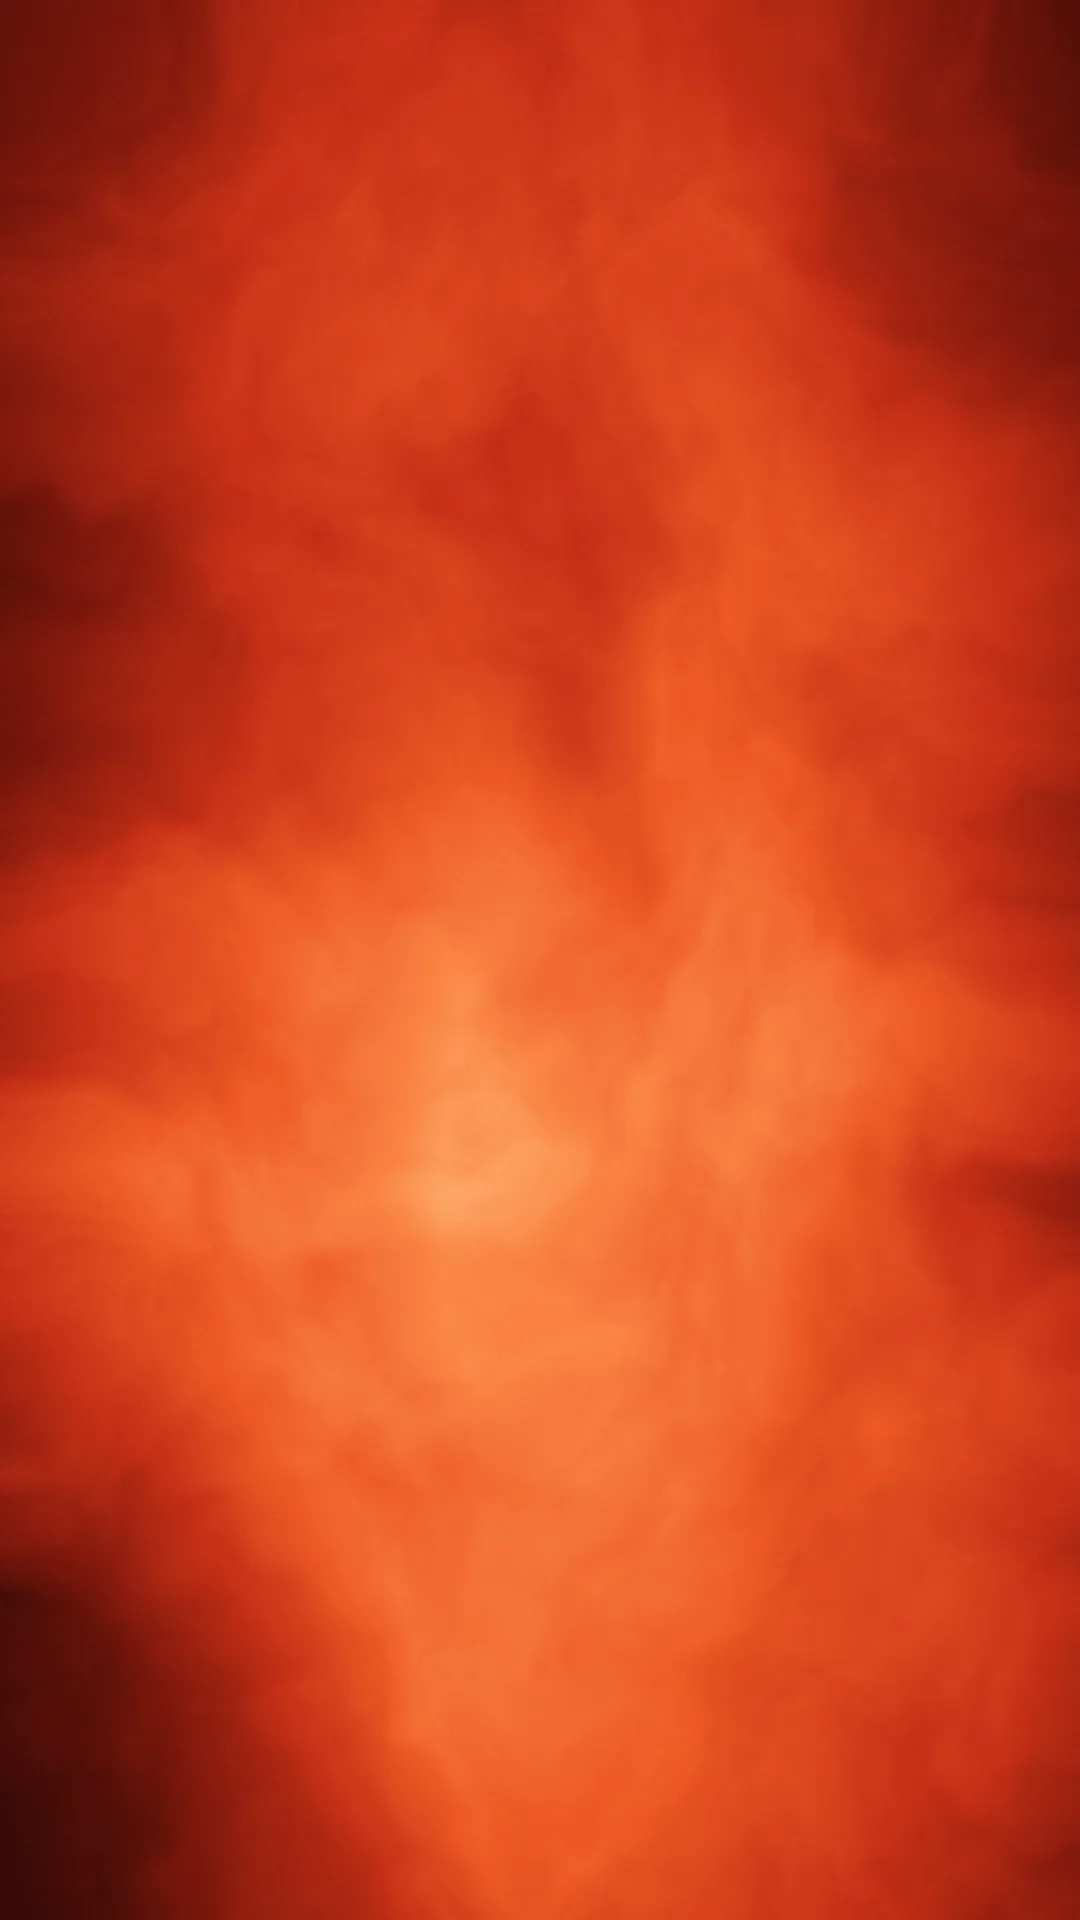
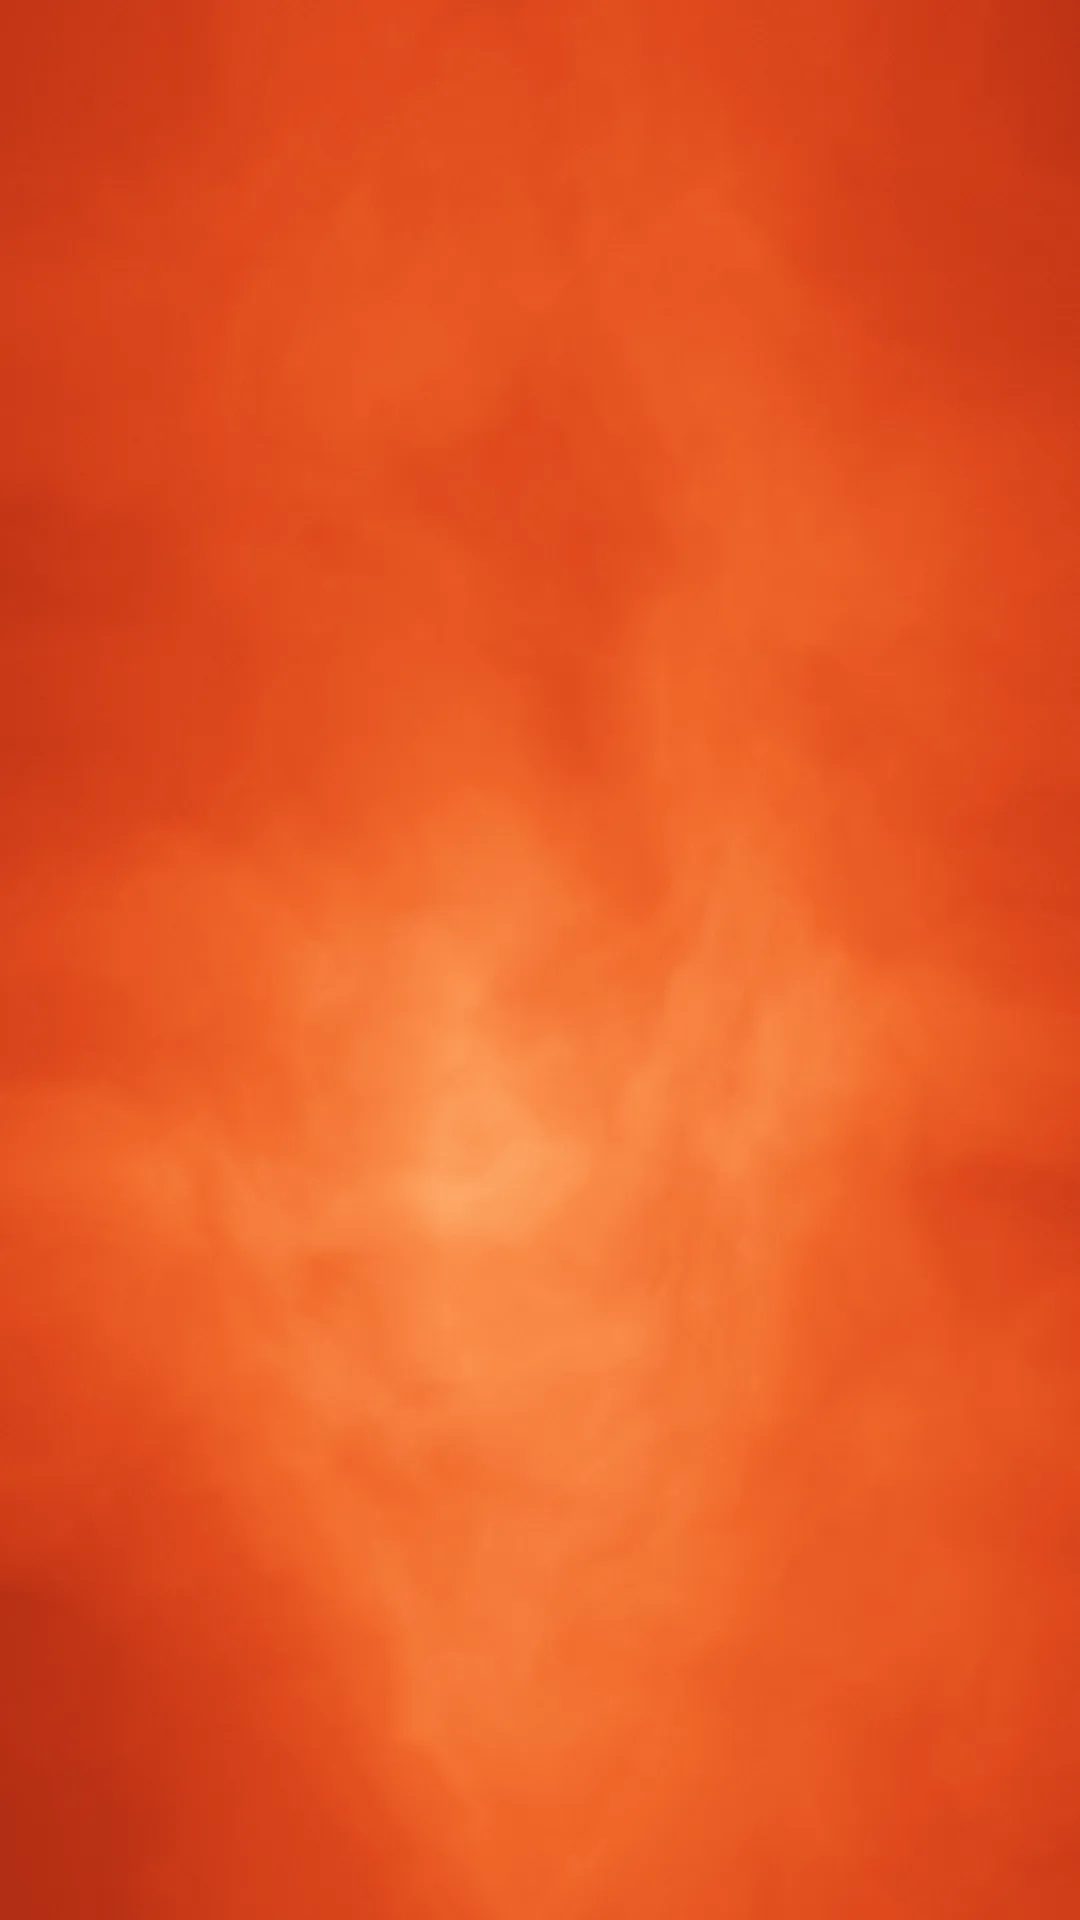
Brighter hero, ligature monogram, no hero button
- Remove Explore the work from the hero; the nav already links to Work
- Regenerate the smoke without near-black: darkest corner is deep orange
- Name in dark ink (AA on the smoke, no shading); top-left on phones
- MP monogram is now a ligature, the P growing out of the M's last stem

diff --git a/src/styles/sections.css b/src/styles/sections.css
@@ -46,12 +46,18 @@
 
 .nav__mono {
   position: relative;
+  display: inline-flex;
   justify-self: start;
   font-family: var(--font-serif);
   font-size: 2.1rem;
   line-height: 1;
   letter-spacing: -0.02em;
   text-decoration: none;
+}
+
+/* MP ligature: the P shares the M's right stem */
+.mono__p {
+  margin-left: -0.19em;
 }
 
 .nav__links {
@@ -293,15 +299,6 @@
   gap: 1rem 1.5rem;
 }
 
-/* a faint shade only behind the corner, so the small name clears AA on the smoke */
-.hero__corner::before {
-  content: '';
-  position: absolute;
-  inset: -90% -40% -90% -25%;
-  z-index: -1;
-  background: radial-gradient(ellipse 60% 55% at 40% 50%, rgb(60 10 5 / 0.38), transparent 75%);
-  pointer-events: none;
-}
 
 .hero__name {
   display: flex;
@@ -312,8 +309,16 @@
   font-weight: 600;
   letter-spacing: 0.3em;
   text-transform: uppercase;
-  color: var(--c-cream);
-  text-shadow: 0 1px 10px rgb(40 6 3 / 0.55);
+  /* dark ink reads on the bright smoke without any shading behind it */
+  color: var(--c-ink);
+}
+
+/* on phones the cloak fills the bottom of the screen, so the name moves to the top */
+@media (max-width: 760px), (max-aspect-ratio: 4/5) {
+  .hero__corner {
+    bottom: auto;
+    top: 5.6rem;
+  }
 }
 
 .hero__name::before {
@@ -323,11 +328,6 @@
   background: currentColor;
 }
 
-.btn--small {
-  min-height: 44px;
-  padding: 0 1.3rem;
-  font-size: 0.92rem;
-}
 
 /* phones and portrait screens: a larger figure, the word still behind the head */
 @media (max-width: 760px), (max-aspect-ratio: 4/5) {

diff --git a/src/sections/Hero.tsx b/src/sections/Hero.tsx
@@ -1,8 +1,8 @@
 import { useEffect, useRef } from 'react';
-import { hero, labels, profile } from '../content/site';
+import { hero, profile } from '../content/site';
 import { HeroReveal } from '../components/HeroReveal';
 import { reducedMotion } from '../lib/env';
-import { goTo, gsap } from '../lib/motion';
+import { gsap } from '../lib/motion';
 
 /**
  * The supplied hero, built as independent planes:
@@ -69,9 +69,6 @@ export function Hero() {
 
           <div className="hero__corner">
             <h1 id="hero-title" className="hero__name">{profile.name}</h1>
-            <a className="btn btn--light btn--small" href="#work" onClick={(e) => { e.preventDefault(); goTo('#work'); }}>
-              {labels.work} <span aria-hidden="true" className="btn__arrow">→</span>
-            </a>
           </div>
         </div>
       </section>

diff --git a/src/components/Nav.tsx b/src/components/Nav.tsx
@@ -81,7 +81,8 @@ export function Nav() {
       <div className="nav__bar">
         <span className="nav__glass" ref={glass} aria-hidden="true" />
         <a className="nav__mono" href="#top" onClick={(e) => jump(e, '#top')} aria-label={`${profile.name}, back to top`}>
-          {profile.monogram}
+          {/* a ligature: the P grows out of the M's last stem */}
+          <span aria-hidden="true" className="mono">M<span className="mono__p">P</span></span>
         </a>
         <nav className="nav__links" aria-label="Sections">
           {navLinks.map((l) => (

diff --git a/scripts/hero-assets.py b/scripts/hero-assets.py
@@ -105,7 +105,8 @@ def smoke(w, h, cx, cy, seed):
     d = np.sqrt(((xx - cx * w) / (w * 0.62)) ** 2 + ((yy - cy * h) / (h * 0.85)) ** 2)
     t = np.clip(np.clip(1.15 - d, 0, 1) ** 1.35 * 0.85 + (n - 0.5) * 0.55 + 0.08, 0, 1)
     stops = np.array([0, 0.22, 0.45, 0.68, 0.86, 1.0])
-    cols = np.array([[0x3a, 0x0b, 0x07], [0x7a, 0x17, 0x0c], [0xc4, 0x2f, 0x16], [0xee, 0x5a, 0x26], [0xfa, 0x86, 0x45], [0xff, 0xb4, 0x76]], np.float32) / 255
+    # no near-black anywhere: the darkest corner is still a deep orange-red
+    cols = np.array([[0xb3, 0x2e, 0x14], [0xcc, 0x3a, 0x18], [0xdf, 0x4a, 0x1e], [0xf0, 0x66, 0x2a], [0xfa, 0x8c, 0x48], [0xff, 0xb4, 0x76]], np.float32) / 255
     img = np.stack([np.interp(t, stops, cols[:, c]) for c in range(3)], -1)
     img += (rng.random((h, w, 1)).astype(np.float32) - 0.5) * 0.025
     return (np.clip(img, 0, 1) * 255).astype(np.uint8)
